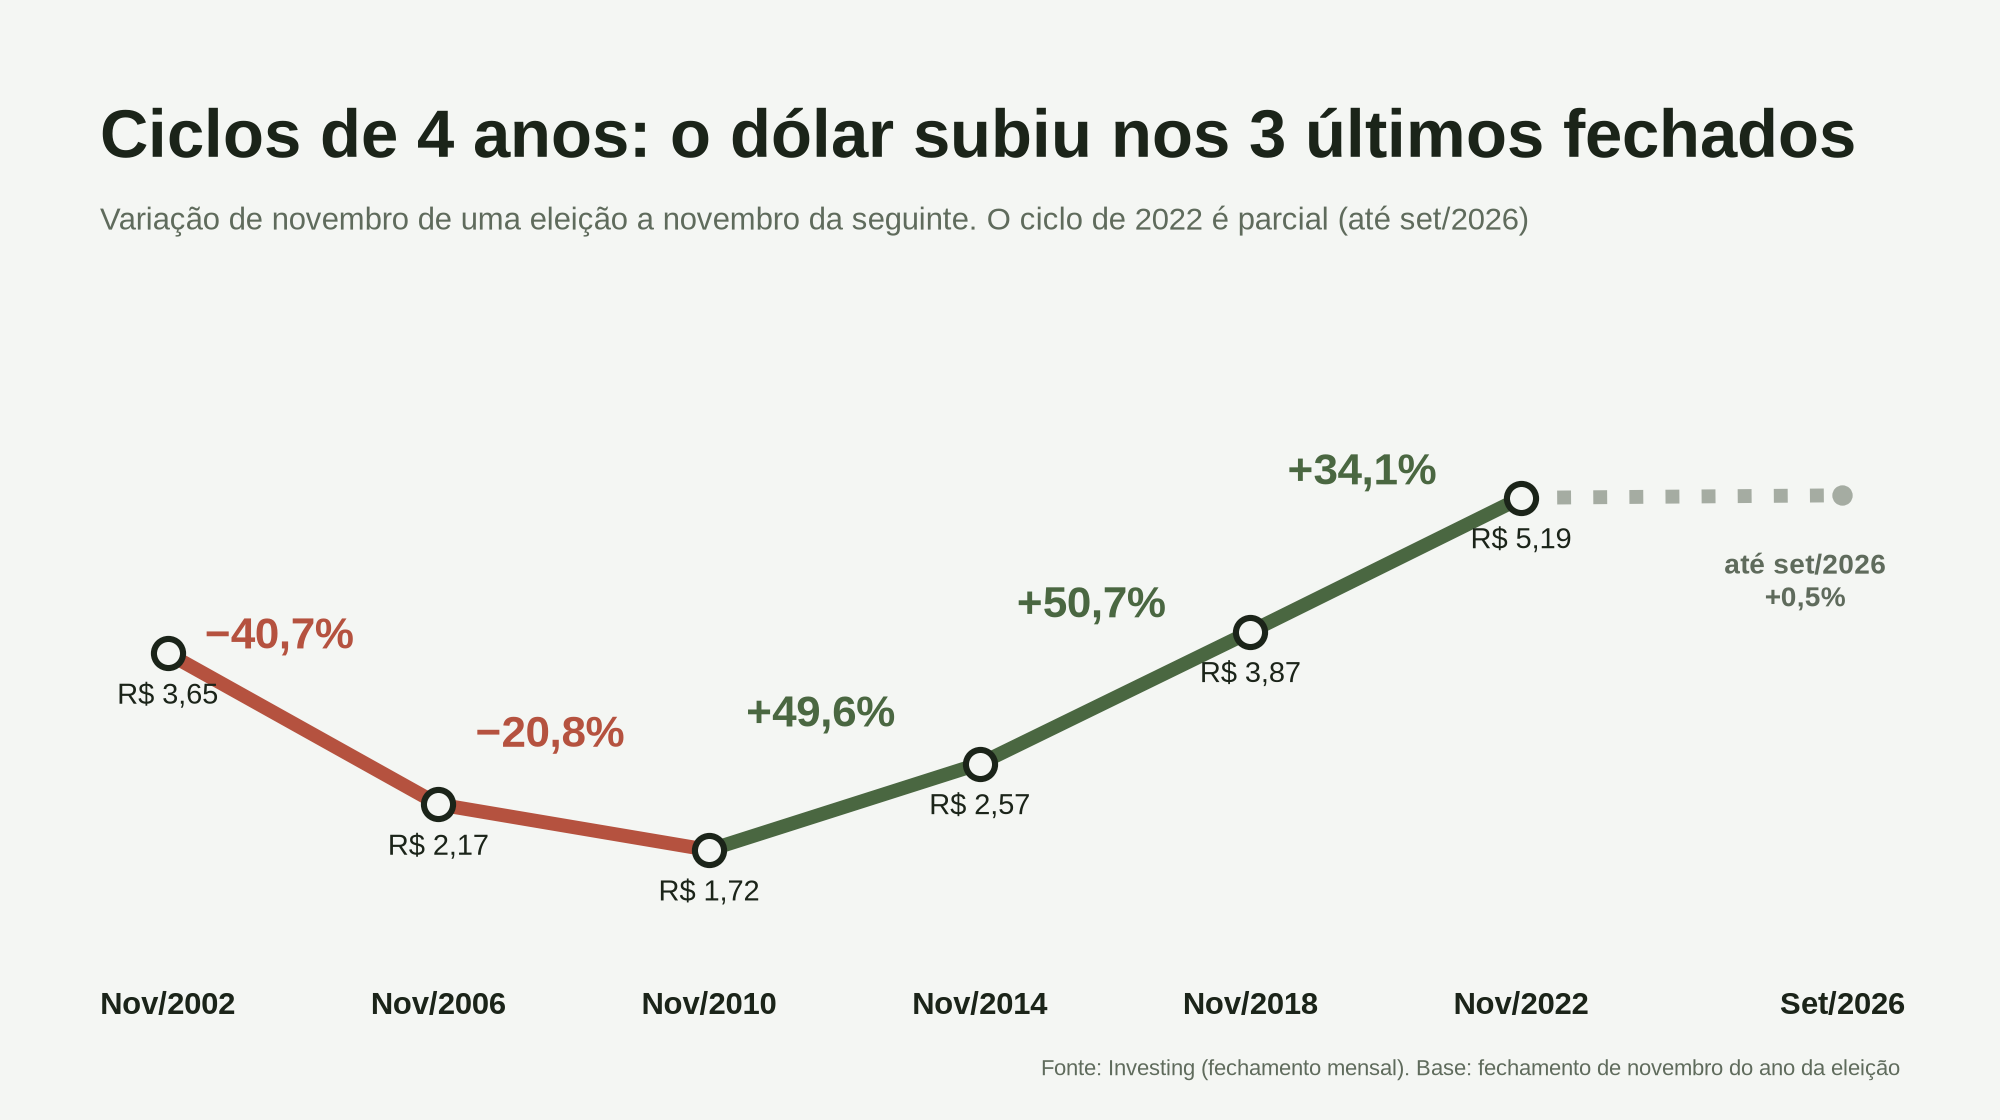
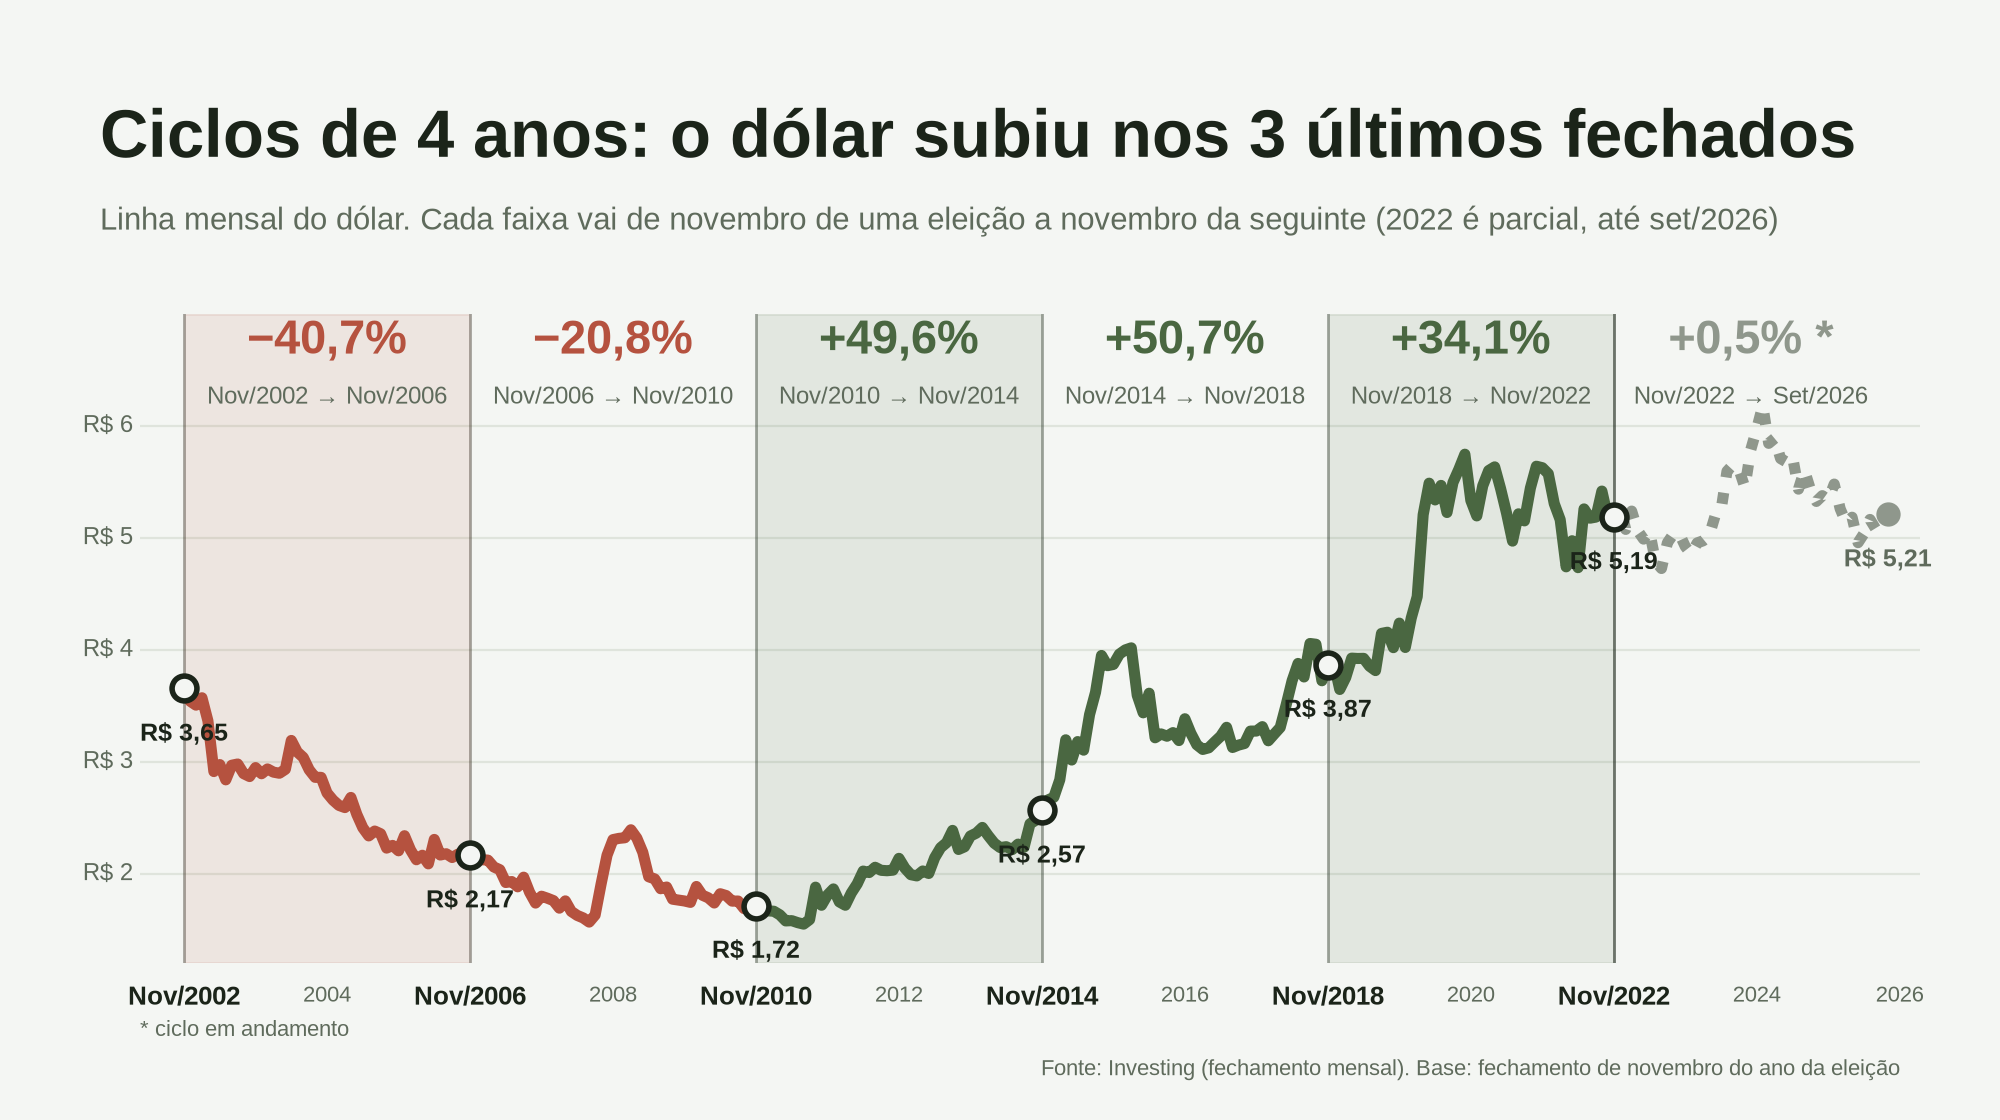
Gráficos com linha mensal completa e janelas nov a nov em destaque
Claude-Session: https://claude.ai/code/session_0199Y78iJYXbJq94ojXAjU9F

diff --git a/graficos_nov_a_nov.py b/graficos_nov_a_nov.py
@@ -48,7 +48,7 @@ UP, DOWN, BLUE = "#4a6741", "#b5523f", "#3b6ea8"
 plt.rcParams["font.family"] = "Liberation Sans" if any("Liberation Sans" in f.name for f in fm.fontManager.ttflist) else "DejaVu Sans"
 rot = lambda v, d=1: f"{v:+.{d}f}%".replace(".", ",").replace("-", "−")
 cor = lambda v: UP if v > 0 else DOWN
-rs = lambda v: "R$ " + f"{v:.2f}".replace(".", ",")
+rs = lambda v: "R\\$ " + f"{v:.2f}".replace(".", ",")
 
 def base(titulo, sub, xmax, ymax, fonte):
     fig = plt.figure(figsize=(10, 5.6), dpi=200, facecolor=BG)
@@ -64,37 +64,73 @@ def base(titulo, sub, xmax, ymax, fonte):
 FONTE = "Fonte: Investing (fechamento mensal). Base: fechamento de novembro do ano da eleição"
 xt = lambda ax, pos, labs: (ax.set_xticks(pos), ax.set_xticklabels(labs, color=INK, fontsize=11, fontweight="bold"))
 
-# ---- 1) 1 ano depois
-fig, ax = base("O dólar no 1º ano de cada governo", "Variação de novembro do ano da eleição a novembro do ano seguinte", 2026.8, 6.6, FONTE)
-seq = [x for e in ELEICOES if e < 2022 or True for x in ((e, brl[(e, 11)]), (e + 1, brl[(e + 1, 11)]))]
-ax.plot([p[0] for p in seq], [p[1] for p in seq], color="#cfd5cb", lw=3, zorder=0)
+# ---- série mensal contínua (fechamento do mês) para os gráficos 1 e 2
+xm = lambda k: k[0] + k[1] / 12          # fim do mês k
+serie = sorted(k for k in brl if k >= (2002, 6))
+SX = [xm(k) for k in serie]; SY = [brl[k] for k in serie]
+tint = lambda c, a=.13: matplotlib.colors.to_rgba(c, a)
+
+def base_mensal(titulo, sub, ymax=7.0):
+    fig = plt.figure(figsize=(10, 5.6), dpi=200, facecolor=BG)
+    fig.text(.05, .86, titulo, color=INK, fontsize=24, fontweight="bold")
+    fig.text(.05, .795, sub, color=MUTED, fontsize=11)
+    ax = fig.add_axes([.07, .14, .89, .58], facecolor=BG)
+    ax.set_xlim(2002.3, 2027.2); ax.set_ylim(1.2, ymax)
+    for v in (2, 3, 4, 5, 6):
+        ax.axhline(v, color=GRID, lw=.8, zorder=0)
+        ax.text(2002.2, v, f"R\\$ {v}", ha="right", va="center", fontsize=8.5, color=MUTED)
+    ax.set_yticks([])
+    for sp in ax.spines.values(): sp.set_visible(False)
+    yrs = list(range(2003, 2027)); el = {e + 11 / 12 for e in ELEICOES}
+    anos_t = [y for y in range(2002, 2027) if y in ELEICOES or (y - 2002) % 4 == 2 or y == 2026]
+    ax.set_xticks([y + 11 / 12 for y in anos_t])
+    ax.set_xticklabels([f"Nov/{y}" if y in ELEICOES else str(y) for y in anos_t], fontsize=8, color=MUTED, rotation=0)
+    for lab, y in zip(ax.get_xticklabels(), anos_t):
+        if y in ELEICOES: lab.set_color(INK); lab.set_fontweight("bold"); lab.set_fontsize(9.5)
+    ax.tick_params(axis="x", length=0, pad=8)
+    fig.text(.95, .04, FONTE, color=MUTED, fontsize=8, ha="right")
+    return fig, ax
+
+def janela_pts(a, b):
+    ks = [k for k in serie if a <= k <= b]
+    return [xm(k) for k in ks], [brl[k] for k in ks]
+
+# ---- 1) 1 ano depois: linha mensal + 6 janelas destacadas
+fig, ax = base_mensal("O dólar no 1º ano de cada governo", "Linha mensal do dólar. Em destaque: de novembro da eleição a novembro do ano seguinte")
+ax.plot(SX, SY, color="#c3cbbf", lw=2, zorder=1)
 for e in ELEICOES:
     a, b = um[e]; v = var(brl, a, b); c = cor(v)
-    ax.plot([e, e + 1], [brl[a], brl[b]], color=c, lw=5, solid_capstyle="round")
-    ax.scatter([e, e + 1], [brl[a], brl[b]], s=45, color=c, zorder=3)
-    for x, dx, ha, k in ((e, -.14, "right", a), (e + 1, .14, "left", b)):
-        ax.text(x + dx, brl[k], rs(brl[k]), ha=ha, va="center", fontsize=8.5, color=MUTED)
-    y = max(brl[a], brl[b]) + .3
-    ax.text(e + .5, y, rot(v), ha="center", va="bottom", fontsize=16, fontweight="bold", color=c)
-xt(ax, ELEICOES, [f"Nov/{e}" for e in ELEICOES])
+    ax.axvspan(xm(a), xm(b), color=tint(c), zorder=0)
+    x, y = janela_pts(a, b)
+    ax.plot(x, y, color=c, lw=4.5, solid_capstyle="round", zorder=3)
+    ax.scatter([x[0]], [y[0]], s=70, color=BG, edgecolor=c, lw=2.2, zorder=4)
+    ax.scatter([x[-1]], [y[-1]], s=70, color=c, zorder=4)
+    top = max(y) + .3
+    xc = (x[0] + x[-1]) / 2 + (.9 if e == 2002 else 0)
+    ax.text(xc, top + .28, rot(v), ha="center", va="bottom", fontsize=16, fontweight="bold", color=c)
+    ax.text(xc, top, f"{rs(brl[a])} → {rs(brl[b])}", ha="center", va="bottom", fontsize=8.5, color=MUTED)
 fig.savefig("grafico_1_ano_nov_a_nov.png", facecolor=BG); plt.close(fig)
 
-# ---- 2) ciclo de 4 anos
-fig, ax = base("Ciclos de 4 anos: o dólar subiu nos 3 últimos fechados",
-               "Variação de novembro de uma eleição a novembro da seguinte. O ciclo de 2022 é parcial (até set/2026)", 2027.6, 7.0, FONTE)
-pts = ELEICOES
-for i, e in enumerate(pts[:-1]):
-    a, b = ciclo[e]; v = var(brl, a, b); c = cor(v); n = pts[i + 1]
-    ax.plot([e, n], [brl[a], brl[b]], color=c, lw=5, solid_capstyle="round")
-    ym = (brl[a] + brl[b]) / 2
-    ax.text((e + n) / 2 - .35, ym + .7, rot(v), ha="center", va="bottom", fontsize=16, fontweight="bold", color=c)
-a, b = ciclo[2022]; v = var(brl, a, b)
-ax.plot([2022, 2026.75], [brl[a], brl[b]], color="#a5aca2", lw=5, ls=(0, (1, 1.6)), solid_capstyle="round")
-ax.scatter([2026.75], [brl[b]], s=40, color="#a5aca2", zorder=3)
-ax.text(2026.2, brl[b] - .5, f"até set/2026\n{rot(v)}", ha="center", va="top", fontsize=10, color=MUTED, fontweight="bold", linespacing=1.35)
-ax.scatter(pts, [brl[(e, 11)] for e in pts], s=110, color=BG, edgecolor=INK, lw=2.2, zorder=3)
-for e in pts: ax.text(e, brl[(e, 11)] - .28, rs(brl[(e, 11)]), ha="center", va="top", fontsize=10.5, color=INK)
-xt(ax, pts + [2026.75], [f"Nov/{e}" for e in pts] + ["Set/2026"])
+# ---- 2) ciclos de 4 anos: linha mensal colorida por ciclo
+fig, ax = base_mensal("Ciclos de 4 anos: o dólar subiu nos 3 últimos fechados",
+                      "Linha mensal do dólar. Cada faixa vai de novembro de uma eleição a novembro da seguinte (2022 é parcial, até set/2026)")
+for i, e in enumerate(ELEICOES):
+    a, b = ciclo[e]; v = var(brl, a, b); parcial = e == 2022
+    c = "#8f978c" if parcial else cor(v)
+    x0, x1 = xm(a), xm(b)
+    if i % 2 == 0: ax.axvspan(x0, x1, color=tint(c, .10), zorder=0)
+    x, y = janela_pts(a, b)
+    ax.plot(x, y, color=c, lw=4, solid_capstyle="round", zorder=3, **({"ls": (0, (1, 1.4))} if parcial else {}))
+    ax.axvline(x0, color=INK, lw=1, alpha=.35, zorder=1)
+    ax.scatter([x0], [brl[a]], s=80, color=BG, edgecolor=INK, lw=2, zorder=4)
+    ax.text(x0, brl[a] - .3, rs(brl[a]), ha="center", va="top", fontsize=9, color=INK, fontweight="bold")
+    m = (x0 + x1) / 2
+    ax.text(m, 6.95, rot(v) + (" *" if parcial else ""), ha="center", va="top", fontsize=17, fontweight="bold", color=c)
+    ax.text(m, 6.35, f"Nov/{a[0]} → " + (f"Set/{b[0]}" if parcial else f"Nov/{b[0]}"), ha="center", va="top", fontsize=8.5, color=MUTED)
+ax.scatter([xm(HOJE)], [brl[HOJE]], s=60, color="#8f978c", zorder=4)
+ax.text(xm(HOJE), brl[HOJE] - .3, rs(brl[HOJE]), ha="center", va="top", fontsize=9, color=MUTED, fontweight="bold")
+ax.axvline(xm((2022, 11)), color=INK, lw=1, alpha=.35, zorder=1)
+fig.text(.07, .075, "* ciclo em andamento", color=MUTED, fontsize=8)
 fig.savefig("grafico_ciclo_4_anos_nov_a_nov.png", facecolor=BG); plt.close(fig)
 
 # ---- 3) USD/BRL x DXY, série mensal contínua, base 100 em nov/2002
